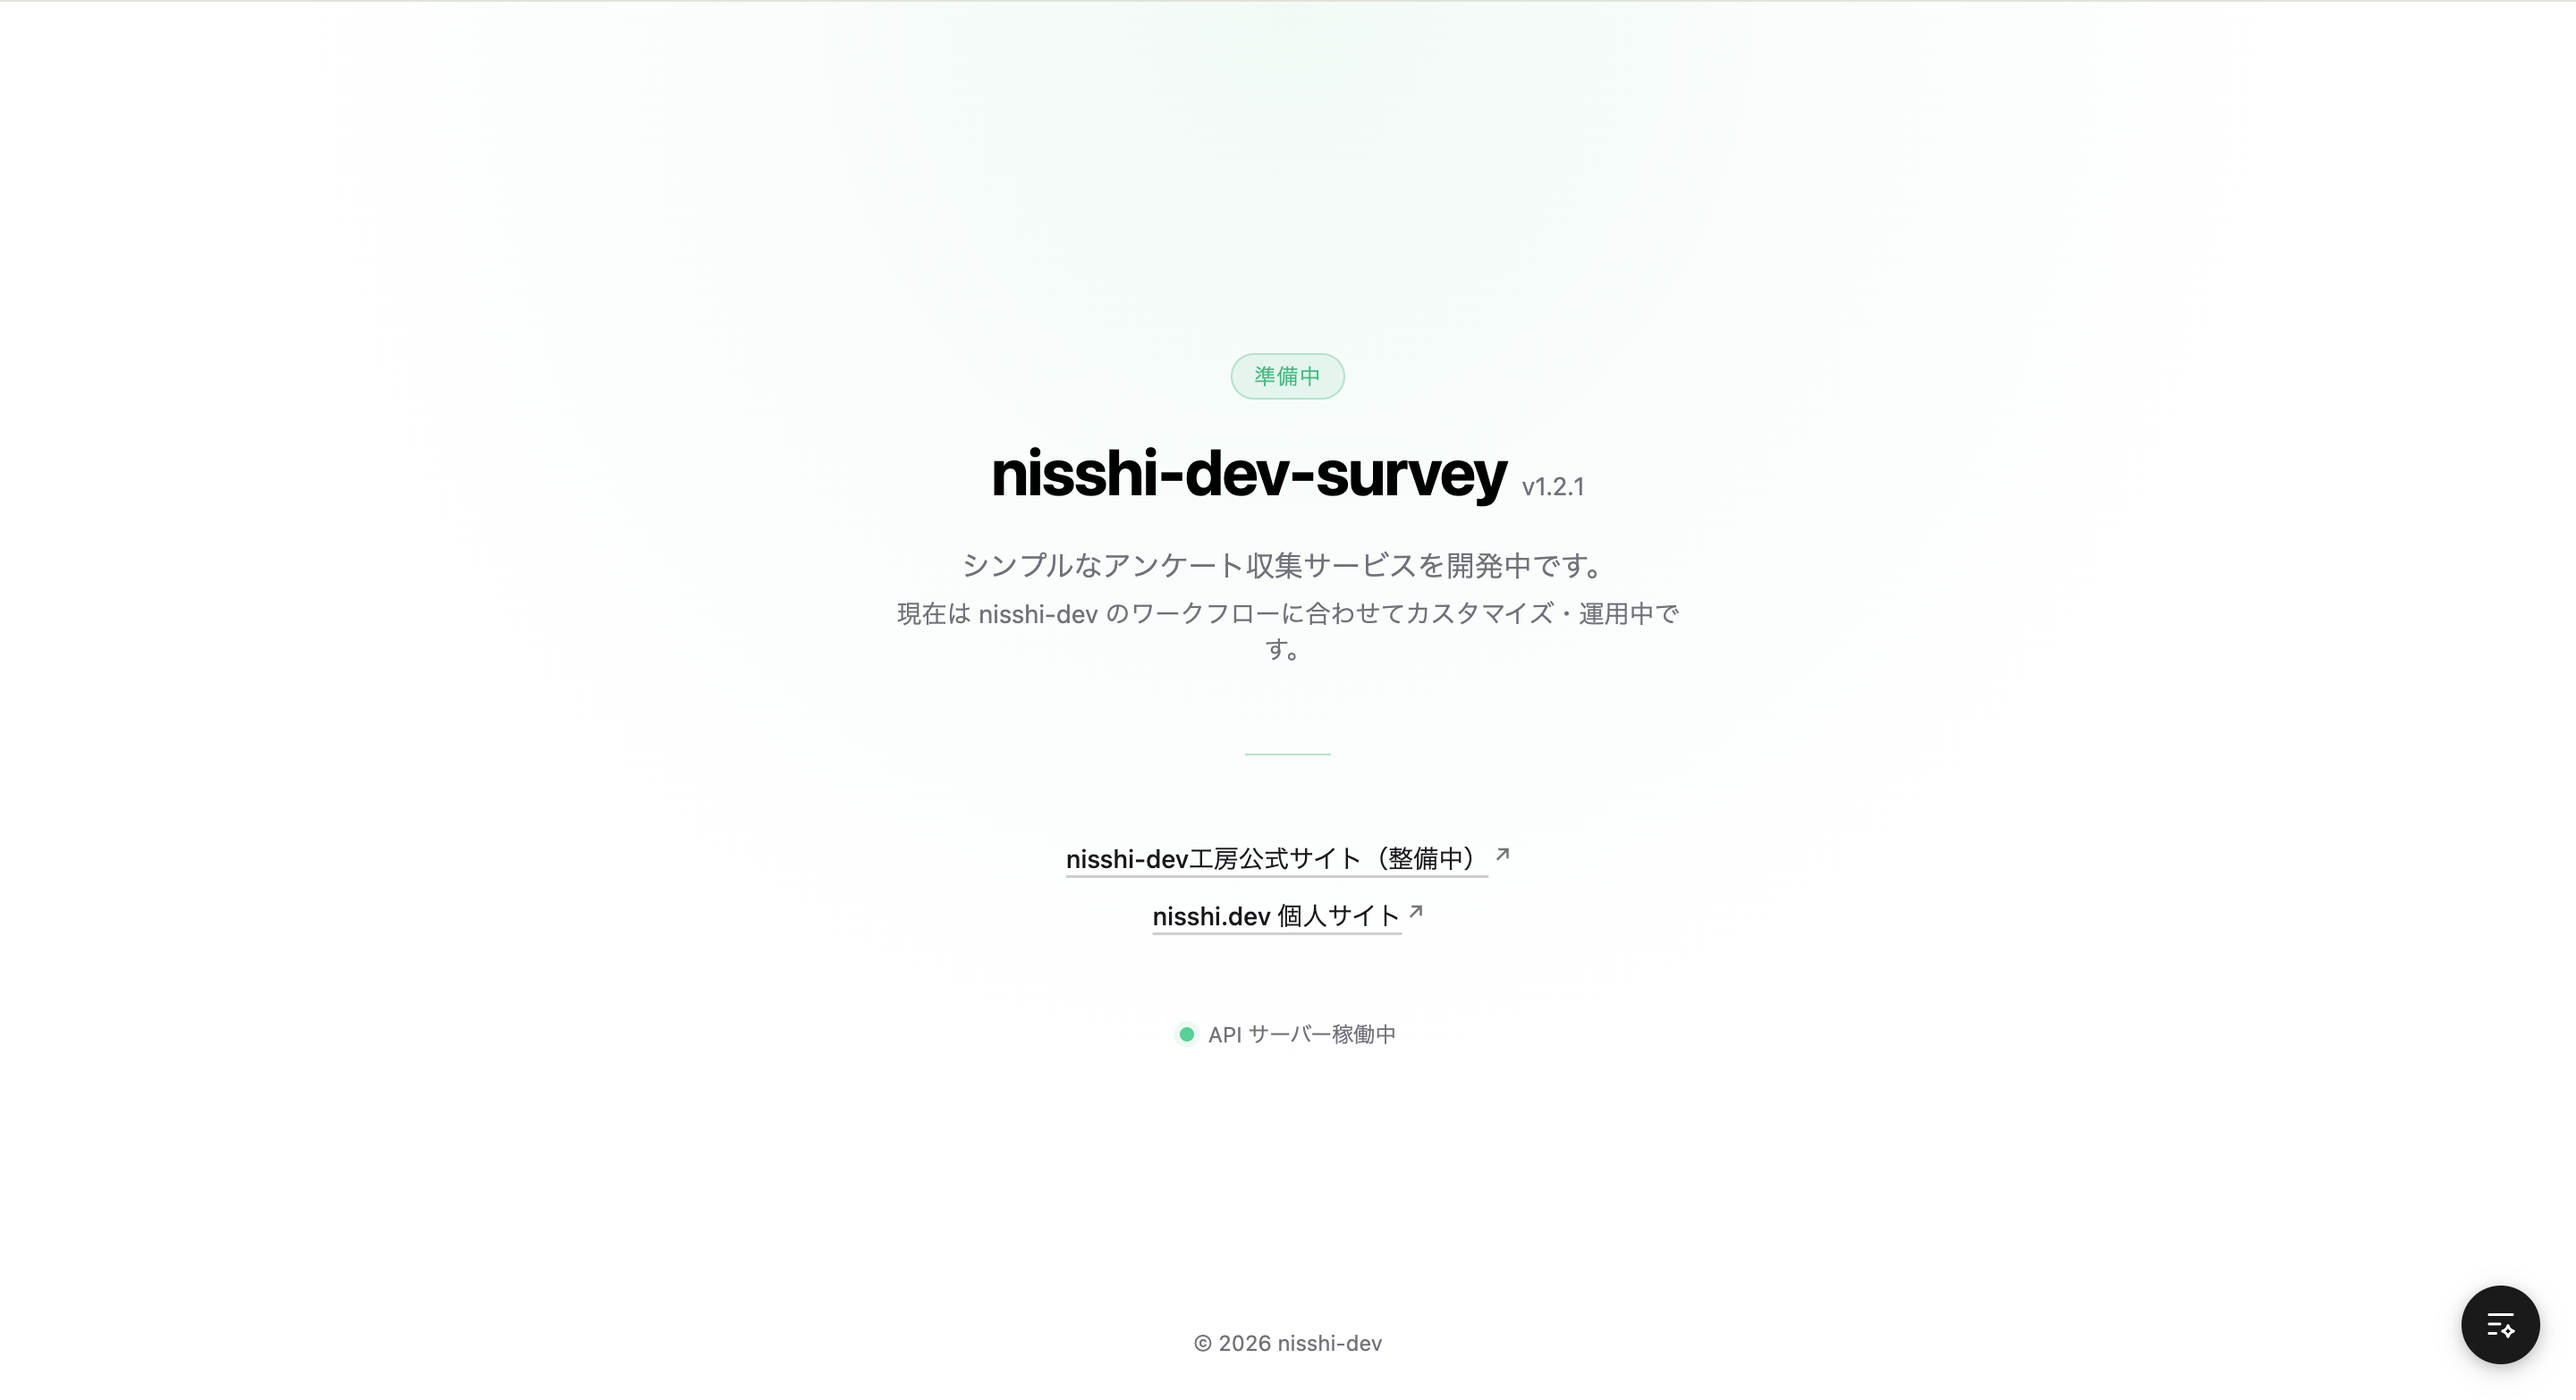
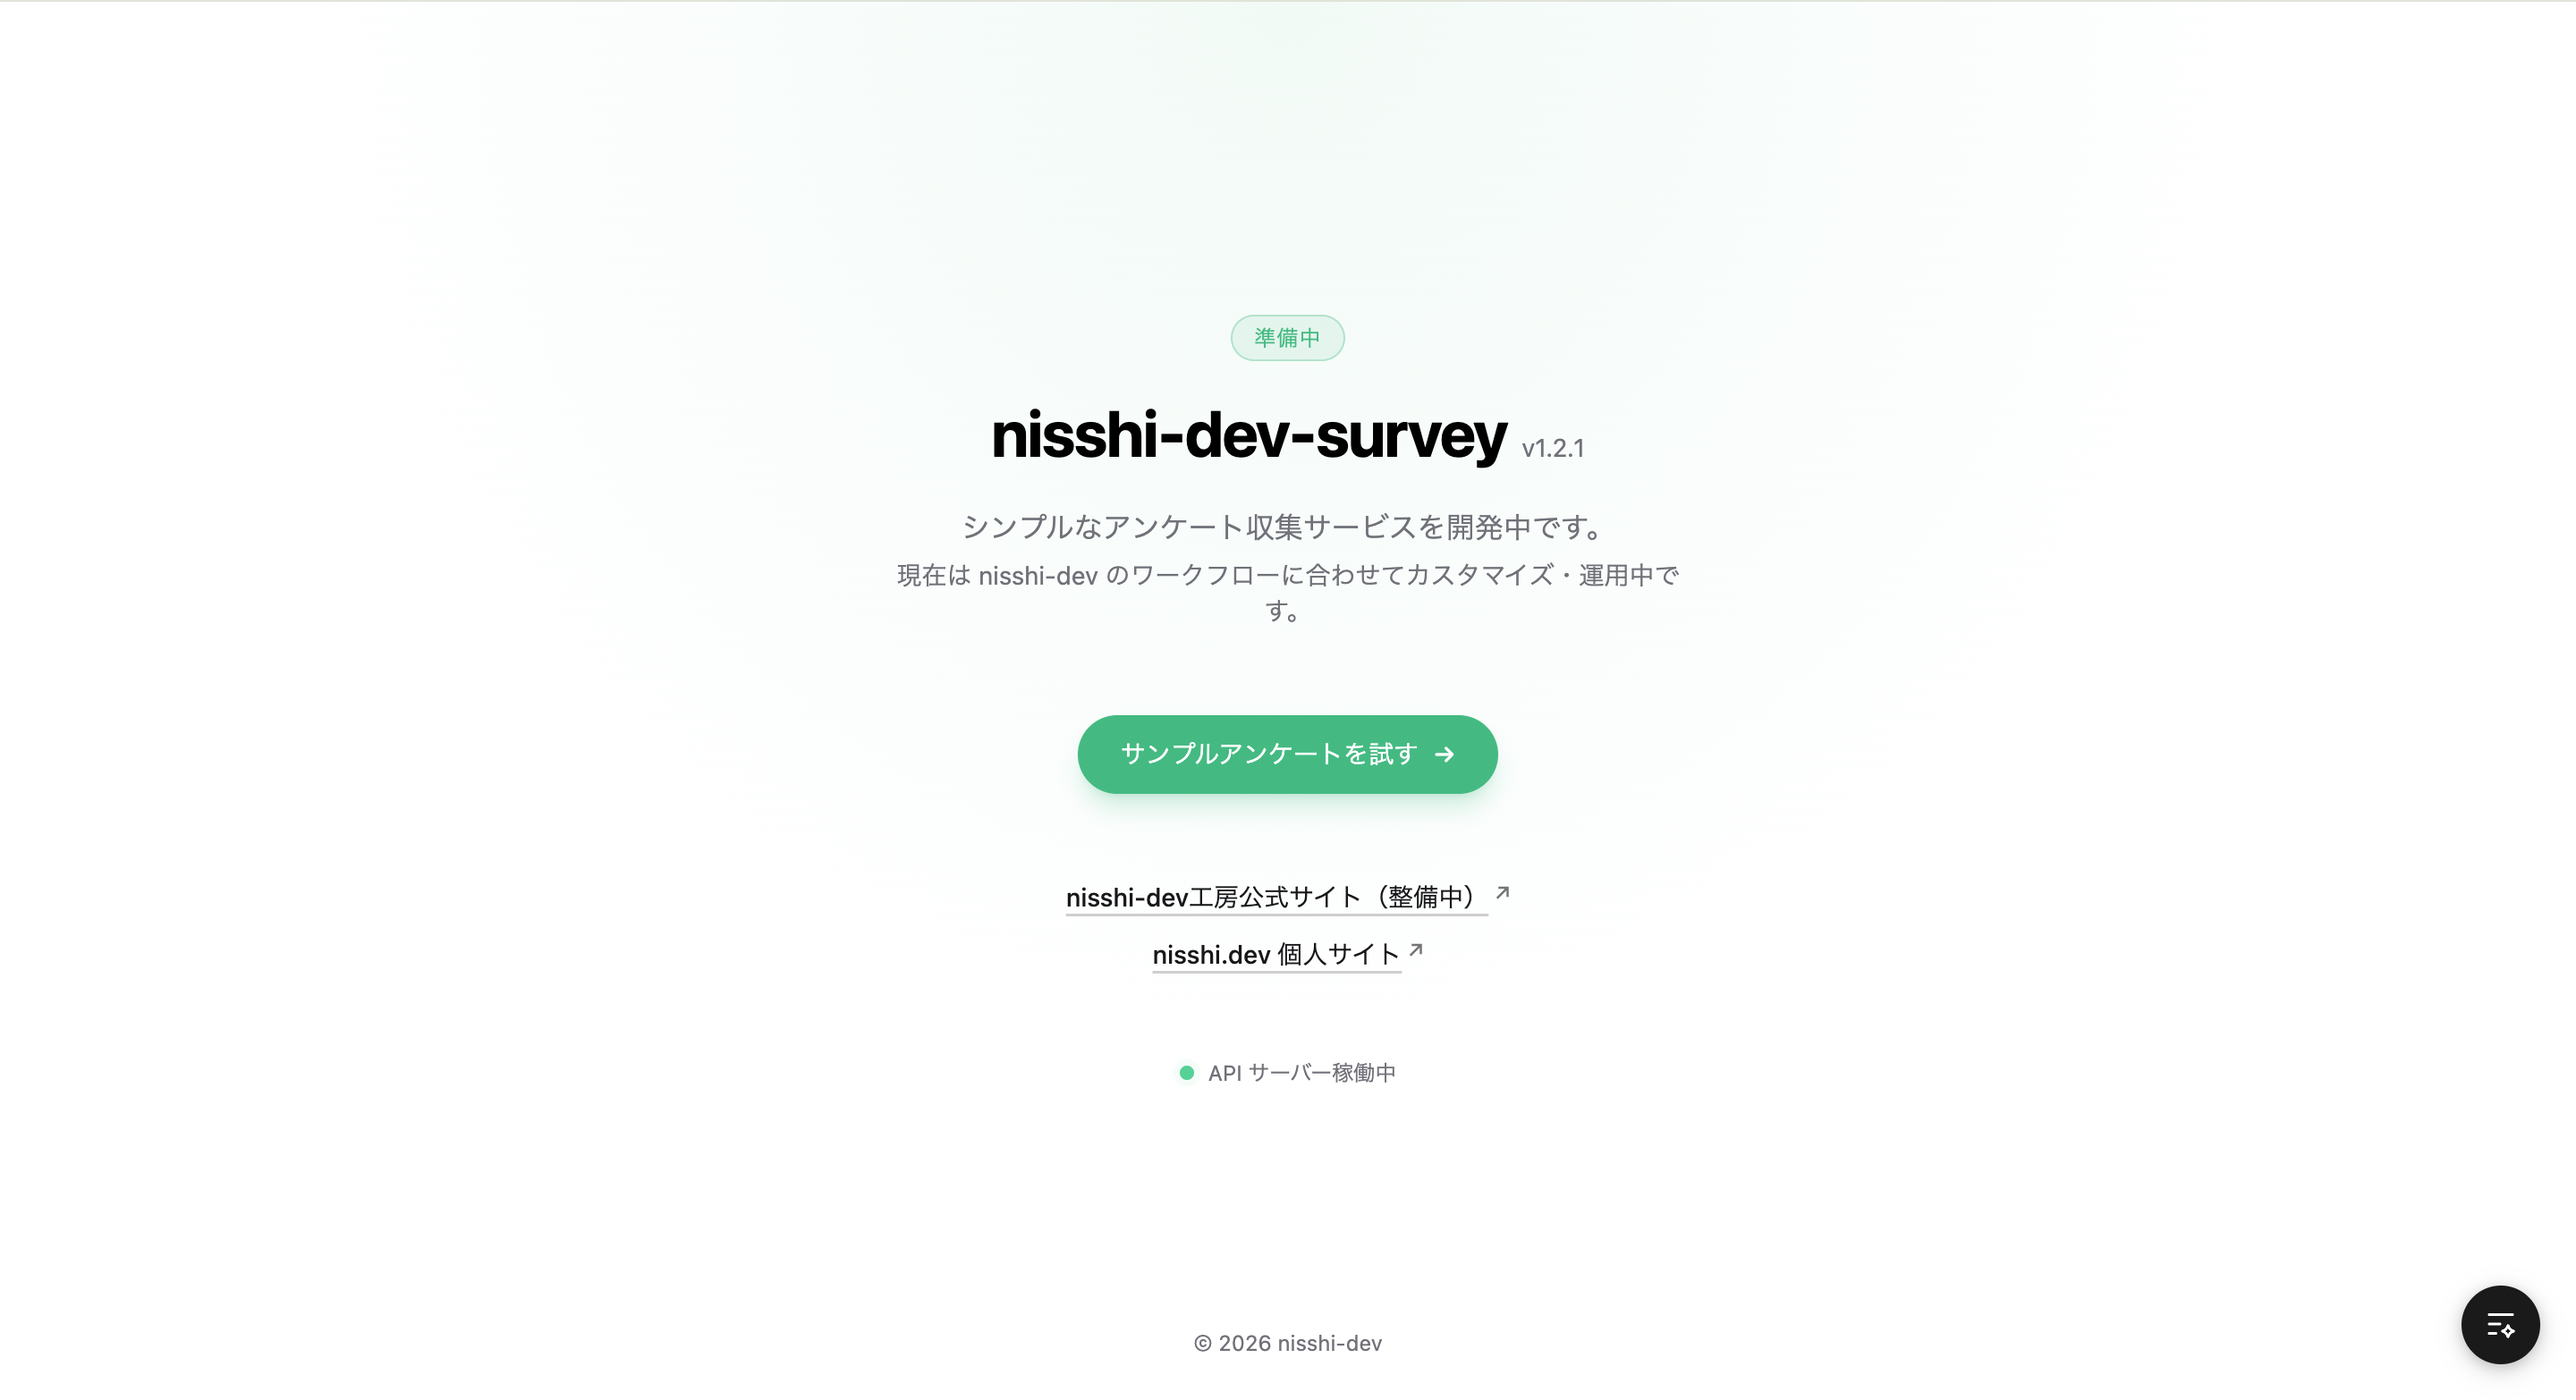
feat: LP にサンプルアンケートへの CTA ボタンを追加

Changed region(s): [[0.3438, 0.2146, 0.6562, 0.4598], [0.4062, 0.4904, 0.5938, 0.705], [0.4688, 0.7356, 0.5312, 0.7663]]

diff --git a/src/routes/lp.tsx b/src/routes/lp.tsx
@@ -110,11 +110,20 @@ export function LandingPage() {
         </div>
 
         <motion.div
-          animate={{ scaleX: 1, opacity: 1 }}
-          className="h-px w-12 bg-accent/40"
-          initial={{ scaleX: 0, opacity: 0 }}
-          transition={{ duration: 0.6, delay: 0.35 }}
-        />
+          animate={{ opacity: 1, y: 0 }}
+          initial={{ opacity: 0, y: 12 }}
+          transition={{ duration: 0.5, delay: 0.35 }}
+        >
+          <a
+            className="inline-flex items-center gap-2 rounded-full bg-accent px-6 py-3 font-medium text-sm text-white shadow-accent/25 shadow-lg transition-all hover:brightness-110 active:scale-[0.98]"
+            href="https://survey.nisshi.dev/survey/cmlzb4omy0000psp76bkn4fto?entry=cmlzbemt50000psp7wd91n5ps"
+            rel="noopener noreferrer"
+            target="_blank"
+          >
+            サンプルアンケートを試す
+            <span aria-hidden>→</span>
+          </a>
+        </motion.div>
 
         <motion.nav
           animate={{ opacity: 1, y: 0 }}
